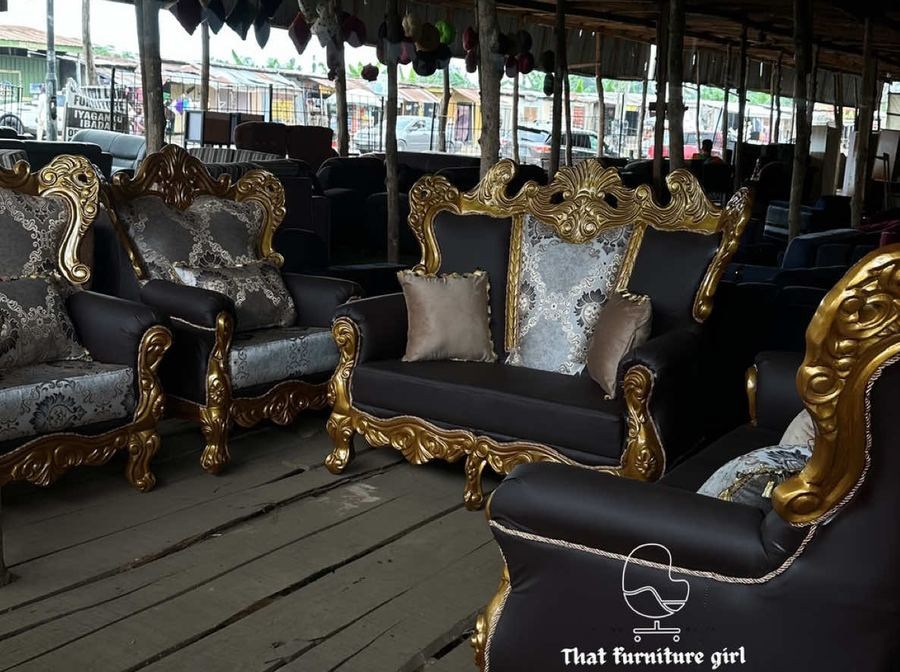
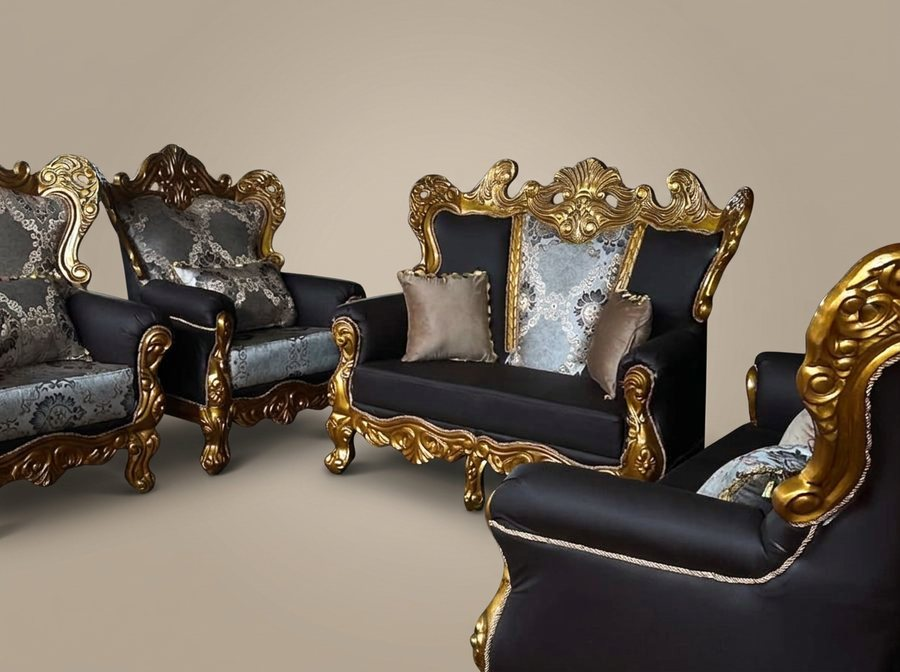
Studio re-shoot: workshop backgrounds removed, products on premium greige #DCD3C8 with soft floor shadow; card/hero/modal backdrops match

diff --git a/public/assets/css/arrangement.css b/public/assets/css/arrangement.css
@@ -109,7 +109,7 @@
   position: relative;
   border-radius: 1.5rem;
   overflow: hidden;
-  background: linear-gradient(135deg, rgba(241,236,226,.2), rgba(206,154,67,.2));
+  background: linear-gradient(160deg, #E6DED3, var(--premium) 60%, #CFC5B8);
   box-shadow: var(--shadow-md);
   aspect-ratio: 1 / 1;
   max-height: 420px;
@@ -319,7 +319,7 @@
   flex-direction: column;
 }
 .product:hover { transform: translateY(-4px); box-shadow: var(--shadow-md); }
-.product__media { background: var(--sand); border-radius: 0; aspect-ratio: 1 / 1; }
+.product__media { background: var(--premium); border-radius: 0; aspect-ratio: 1 / 1; }
 .product__media img { object-fit: cover; }
 .product__label {
   position: absolute;
@@ -498,7 +498,7 @@
 .product-card__media {
   position: relative;
   aspect-ratio: 1 / 1;
-  background: linear-gradient(135deg, var(--surface-2), var(--gold-soft, #f7eedd));
+  background: linear-gradient(160deg, #E6DED3, var(--premium) 60%, #CFC5B8);
   display: flex; align-items: center; justify-content: center;
   overflow: hidden;
 }
@@ -567,10 +567,10 @@
 .hero__glow::before { top: 5rem; left: 2.5rem; width: 16rem; height: 16rem; }
 .hero__glow::after { bottom: 2.5rem; right: 5rem; width: 24rem; height: 24rem; opacity: .5; }
 
-/* hero panel gradient bg (radius is set by the base rule + the desktop
-   media query above, so it must not be repeated here or it would win) */
+/* hero panel backdrop = the premium studio colour (radius is set by the base
+   rule + the desktop media query above, so it must not be repeated here) */
 .hero__panel {
-  background: linear-gradient(135deg, rgba(241,236,226,.2), rgba(206,154,67,.2));
+  background: linear-gradient(160deg, #E6DED3, var(--premium) 60%, #CFC5B8);
 }
 .hero__panel img { object-fit: cover; }
 

diff --git a/public/assets/css/style.css b/public/assets/css/style.css
@@ -31,6 +31,7 @@
   --wa:          #1FA34A;
   --wa-dark:     #17863C;
   --sand:        #F1ECE2;
+  --premium:     #DCD3C8;   /* studio backdrop colour behind every product photo */
 
   --ink:         #0B0C0E;
   --ink-soft:    #33383C;
@@ -1015,7 +1016,7 @@ p  { margin: 0; text-wrap: pretty; }
   display: grid; grid-template-columns: 1fr;
 }
 @media (min-width: 800px) { .modal__panel { grid-template-columns: 1.02fr 1fr; } }
-.modal__media { background: var(--surface-2); }
+.modal__media { background: var(--premium); }
 .modal__media img { width: 100%; height: 100%; object-fit: cover; min-height: 260px; }
 .modal__body { padding: clamp(24px, 3vw, 36px); }
 .modal__close {
